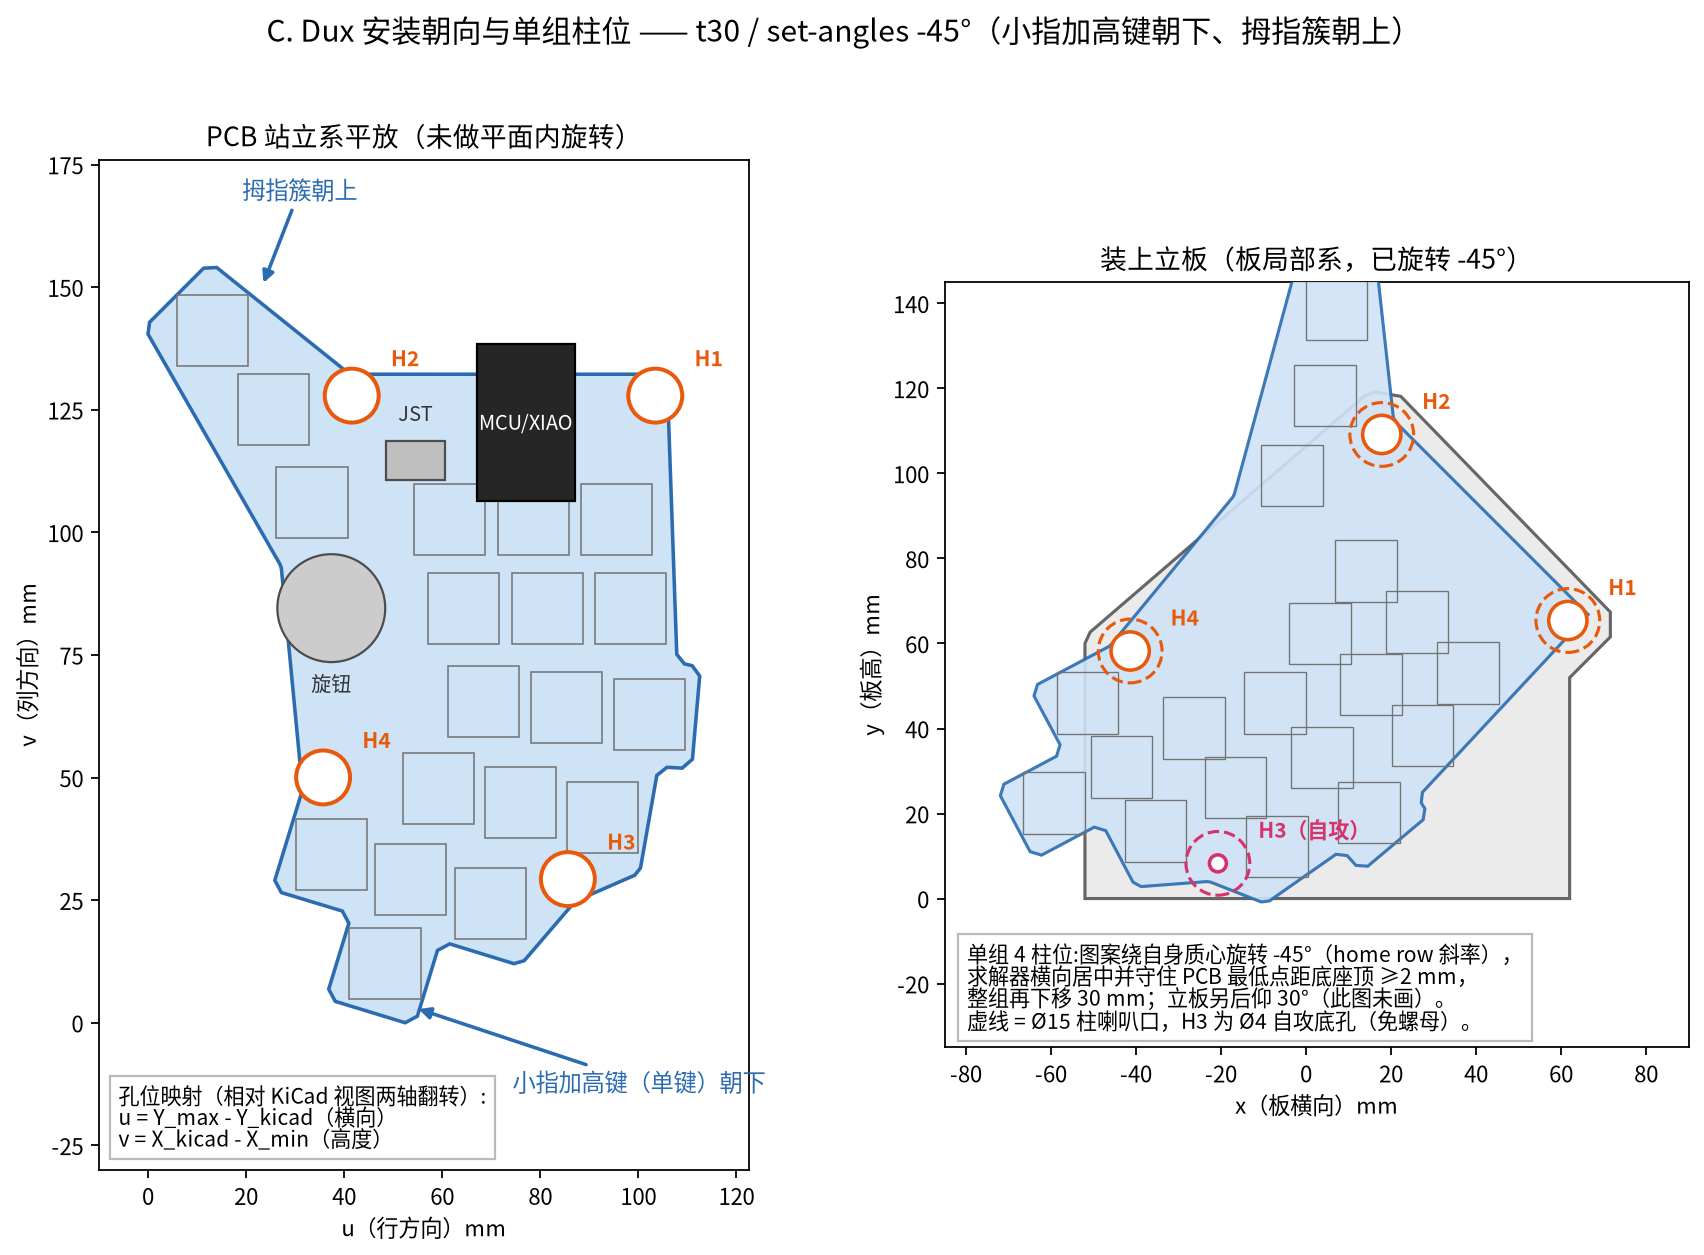
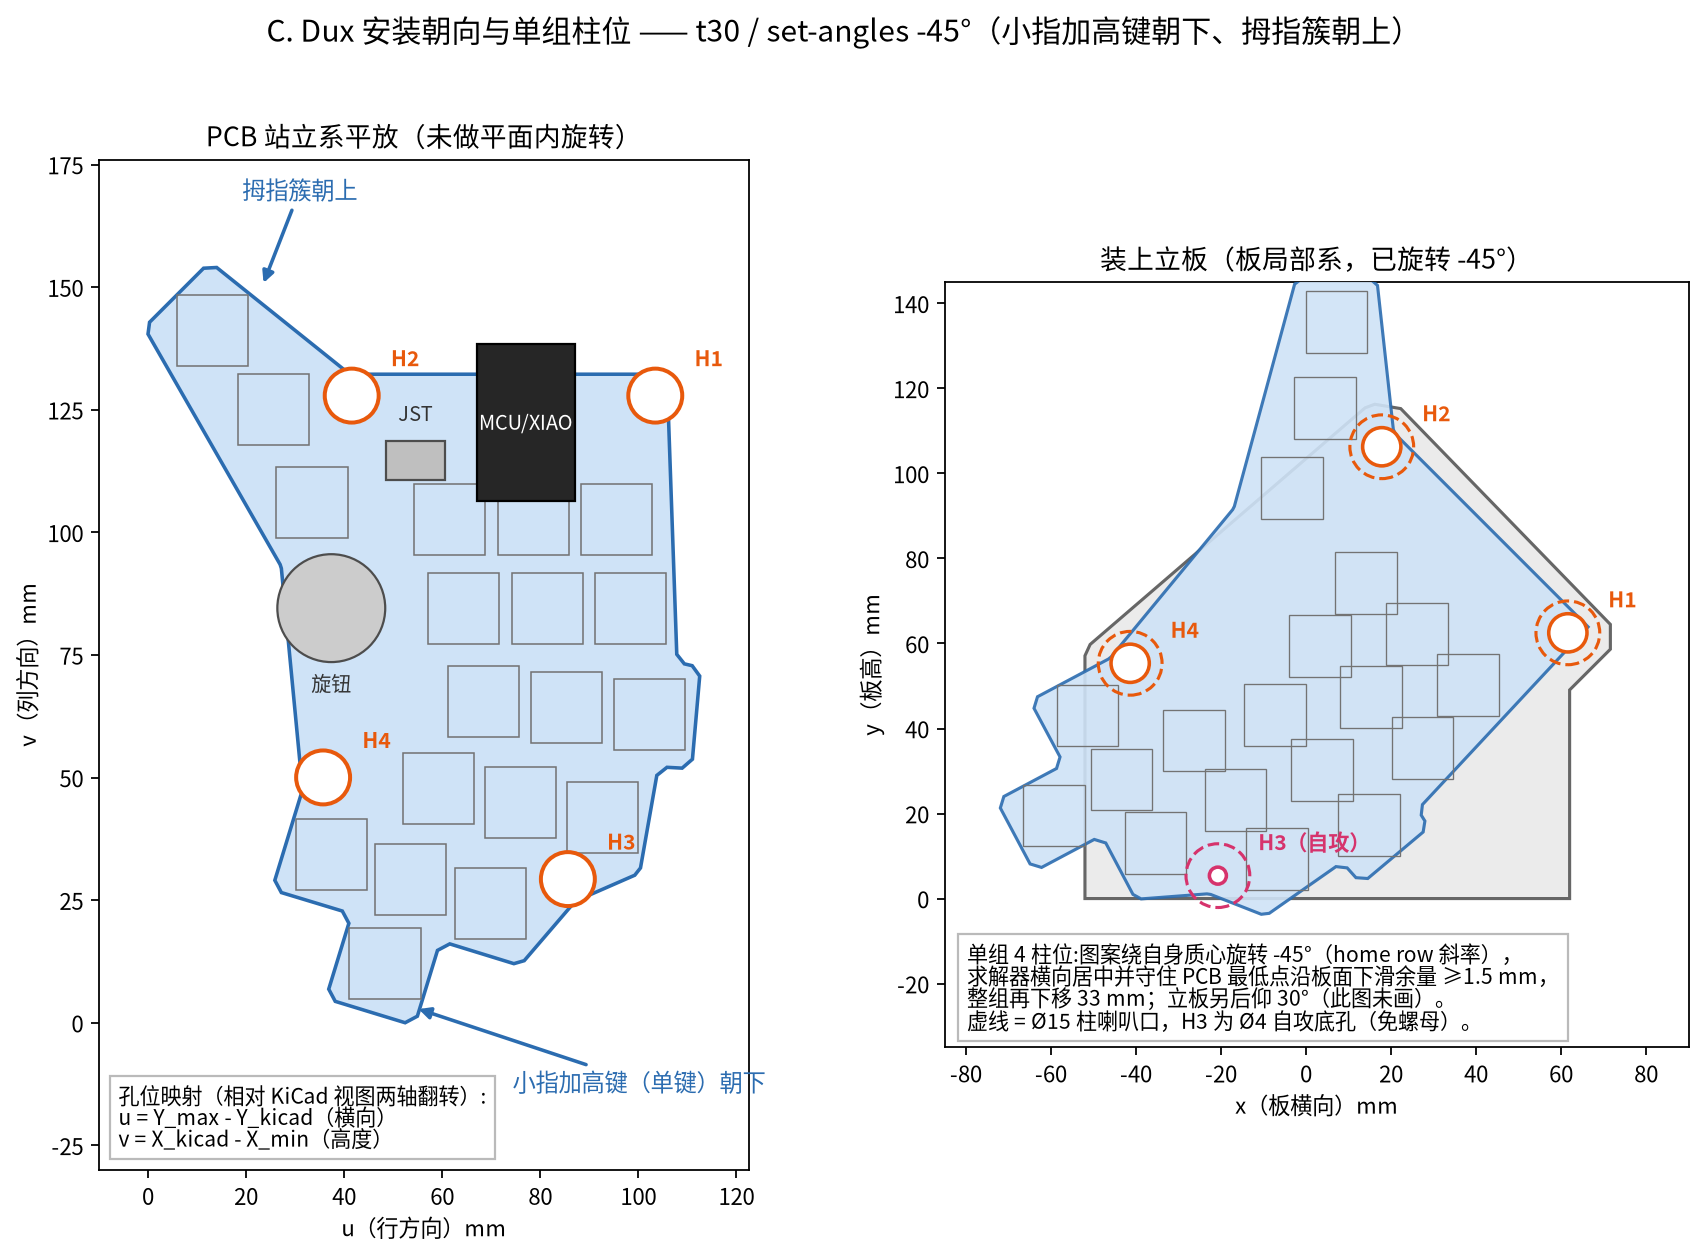
case/build123d: 高度约束改为沿板面下滑余量 1.5 mm
约束从世界竖直 2 mm(BASE_TOP_MARGIN)改为沿立板平面度量的下滑余量
1.5 mm(SLIDE_TOP_MARGIN,v_floor 乘 cos tilt 逐角度换算)——键盘装好
后只能沿板面滑动,竖直方向的约束对它没有物理意义。keyboard_drop
30 → 33 让约束绑定:t30/−45 回抬 ~0.11、净下移 ~32.9、最低板料点
z = 7.30(下滑恰 1.50/竖直 1.30),立板矮 ~2.5 mm(105 → 103 cm³),
左短肋自动降为 h=48;柱位 x 不变,底座足迹/榫键/螺孔不变。

H3 自攻容螺长检查改为纯信息报告(3 颗螺钉夹紧实测已足够,该孔基本
不用):去掉 design value 标注,只报告可用螺丝长度与咬合量。
H3 喇叭口足环回到越缘 2.1 mm,由靴座前斜面承载(flare_supported
通过),自攻咬合不变(M4×12 咬合 1.4 mm)。

README/stand-design.md 全部相关数字同步;对比图脚本去掉硬编码数字
改由数据驱动,mounting.png 重出。审计:悬空 0.21 cm² 无孤岛,
干涉体积 0。

diff --git a/case/build123d/stand.py b/case/build123d/stand.py
@@ -132,13 +132,13 @@ plate_margin = 10
 bottom_ext = 6.5  # nominal plate below the PCB bottom edge; the solver's
 #                  v_floor keeps the board's lowest outline point clear of
 #                  the base top, and keyboard_drop eats most of that margin
-keyboard_drop = 30.0  # whole mounting pattern shifted DOWN the plate by this
-# much (user asked for "键盘下移 3cm"; the real-outline height floor auto-
-# caps the NET drop wherever it binds — the solver lifts the pattern just
-# enough to hold the 2 mm base-top margin; angle-dependent: t30/-35 lift
-# ~0.9 -> net 29.1, lowest point z = 8.00, while t30/-45 leaves lift = 0
-# (net 30, lowest point z ~ 9.8). The old 20 cap guarded the lowest post's
-# back-face nut pocket vs the boot top; lowest_post_tapped = True removes it)
+keyboard_drop = 33.0  # whole mounting pattern shifted DOWN the plate by this
+# much (initially a user-measured 30; raised to 33 so the slide-margin floor
+# actually BINDS at t30/-45 and squeezes the upright: the solver lifts the
+# pattern just enough to hold the floor, so the NET drop auto-caps —
+# t30/-45: lift ~0.11, net ~32.9, lowest point z ~ 7.30 (slide margin 1.5).
+# The old 20 cap guarded the lowest post's back-face nut pocket vs the boot
+# top; lowest_post_tapped = True removes it)
 lowest_post_tapped = True  # lowest post gets a Ø tap_d self-tapping pilot
 # instead of a nut pocket: after the drop its back-face pocket would sit
 # inside the boot's z-band with no insertion access, and a tapped hole needs
@@ -317,7 +317,8 @@ nut_pocket_ac = 8.6  # hex pocket across corners + clearance (rib keep-out);
 # A single 4-post set per upright; its in-plane rotation (--set-angles,
 # default -40 deg CCW in the front view, negate to mirror) sets the home-row
 # slope. The solver centers the set laterally and lifts it so the rotated
-# board's lowest outline point clears the base top (BASE_TOP_MARGIN), then
+# board's lowest outline point clears the base top by SLIDE_TOP_MARGIN
+# (measured along the plate plane), then
 # shifts the whole pattern keyboard_drop down the plate.
 SET_ANGLES = [-45]  # deg, CCW in front view (negate to mirror tilt)
 MIN_POST_CENTER = 11.0  # post diameter 10 + 1 mm printing clearance
@@ -328,10 +329,13 @@ PLATE_HALF_BOUND = 72.0  # lateral layout sanity cap: the solver keeps post
 #                          base slab — the band IS the slab now) never
 #                          exceeds it either; a wider wish is a layout
 #                          problem, not a wider slab
-BASE_TOP_MARGIN = 2.0  # rotated board's lowest point vs base top — the ONLY
-#                        height constraint: clear the base, sit as low as
-#                        possible (the old 43 mm bottom-line rule applied only
-#                        to a base-parallel, unrotated mounting)
+SLIDE_TOP_MARGIN = 1.5  # keyboard slide margin vs base top, mm measured
+#                        ALONG the plate plane (world-z margin = this *
+#                        cos(tilt)): how far the mounted board could slide
+#                        down its posts before its lowest outline point
+#                        touches the base top — the ONLY height constraint
+#                        (the old world-z 2.0 rule applied to a vertical
+#                        drop the mounted board cannot make)
 EPS = 0.01
 MIN = Align.MIN
 
@@ -860,18 +864,21 @@ class Stand:
         lower on the plate (user request; with lowest_post_tapped the
         outline floor is the only limit — the solver lifts the pattern
         just enough to hold it, so the NET drop is keyboard_drop minus
-        that lift, ~29.1 mm at the default drop 30).
+        that lift, ~32.9 mm at the default drop 33).
         Optimizes for the largest minimum post distance, tie-broken by
         a compact span and a centered shift."""
         cu = sum(u for u, _ in self.holes) / len(self.holes)
         cv = sum(v for _, v in self.holes) / len(self.holes)
         rel = [(u - cu, v - cv) for u, v in self.holes]
         # v' the lowest board material may reach: the plate back face under
-        # it must stay BASE_TOP_MARGIN above the base top
+        # it must stay SLIDE_TOP_MARGIN above the base top, measured ALONG
+        # the plate plane (slide direction the mounted board can actually
+        # move in) — hence the *ct: world-z margin = slide * cos(tilt).
         # face_z = plate_t + post_h: the PCB back rides that far in front of
         # the plate back face, so its world height gains face_z * st
         v_floor = (
-            base_t + BASE_TOP_MARGIN - self.origin_z - self.face_z * self.st
+            base_t + SLIDE_TOP_MARGIN * self.ct - self.origin_z
+            - self.face_z * self.st
         ) / self.ct - bottom_ext
 
         lifted = []
@@ -1857,7 +1864,8 @@ def main() -> None:
             print(
                 f'set {ang:5.1f}°: posts x=[{min(x for x, _ in pts):7.2f}, '
                 f'{max(x for x, _ in pts):7.2f}]  '
-                f'lowest PCB outline point z={corner_z:6.2f} mm'
+                f'lowest PCB outline point z={corner_z:6.2f} mm '
+                f'(slide margin {(corner_z - stand.origin_z) / stand.ct:.2f} mm)'
             )
         key_xs = [round(stand.band_mid + s * key_x, 1) for s in (-1, 1)]
         print(

diff --git a/case/build123d/pcb_rotation_figure.py b/case/build123d/pcb_rotation_figure.py
@@ -315,8 +315,9 @@ def main() -> None:
     axins.axhline(0, color='k', lw=1.6)
     axins.axhspan(-8, 0, facecolor='0.96', hatch='///', edgecolor='0.55',
                   lw=0)
-    axins.axhline(6, color='0.35', lw=1.2, ls='--', zorder=2)
-    boxed(axins, cw[0] - 23, 6.4, '底座顶 z=6', '0.3')
+    base_t = figd['base']['t']
+    axins.axhline(base_t, color='0.35', lw=1.2, ls='--', zorder=2)
+    boxed(axins, cw[0] - 23, base_t + 0.4, f'底座顶 z={base_t:g}', '0.3')
     boot_f, ledge = figd['boot']['front'], figd['boot']['top']
     axins.plot([boot_f, boot_f + 8 * st / ct], [6, ledge], color='0.25',
                lw=2.2, zorder=2)
@@ -351,10 +352,11 @@ def main() -> None:
         arrowprops={'arrowstyle': '-|>', 'color': C_CORNER, 'lw': 1.0})
     boxed(axins, x0 + 12.5 * math.cos(aa), z0 + 12.5 * math.sin(aa) + 1.2,
           f'{a_edge:+.0f}°', C_CORNER, ha='center')
-    axins.annotate('', xy=(cw[0] + 5.5, 6), xytext=(cw[0] + 5.5, cw[2]),
+    axins.annotate('', xy=(cw[0] + 5.5, base_t),
+                   xytext=(cw[0] + 5.5, cw[2]),
                    arrowprops={'arrowstyle': '<->', 'color': 'k', 'lw': 1.0})
-    boxed(axins, cw[0] + 6.2, (6 + cw[2]) / 2,
-          f'距底座顶\n{cw[2] - 6:.1f} mm', 'k', va='center')
+    boxed(axins, cw[0] + 6.2, (base_t + cw[2]) / 2,
+          f'距底座顶\n{cw[2] - base_t:.1f} mm', 'k', va='center')
     axins.plot(hl_w[0], hl_w[2], 'o', color=C_HL, ms=5, zorder=6)
     axins.annotate(args.highlight_label.split('（')[0],
                    xy=(hl_w[0], hl_w[2]),

diff --git a/case/build123d/keyboard_clearance_check.py b/case/build123d/keyboard_clearance_check.py
@@ -282,8 +282,10 @@ def main() -> None:
     print(f'   gap to base top {corn_w[2] - stand.base_t:.2f} mm; '
           f'x within boot span: {s.boot_lo <= corn_w[0] <= s.boot_hi}')
 
-    # ---- H3 self-tap screw capacity -----------------------------------------
-    print('\n== 4. H3 self-tap pilot: how long an M4 screw fits')
+    # ---- H3 self-tap screw capacity (informational only) --------------------
+    # The 3 nut-clamped screws hold the board in practice; this hole is
+    # rarely used, so the report just states what length fits — no gating.
+    print('\n== 4. H3 self-tap pilot: usable screw length (informational)')
     hx, hy = s.lowest_post
     free = face_z + args.pcb_t            # bore through PCB+post+plate
     x0, x1 = (s.band_mid - stand.key_x - stand.key_l / 2 - stand.joint_clear,
@@ -308,7 +310,7 @@ def main() -> None:
     for screw_len in (12, 14, 16):
         bite = screw_len - free   # tip depth into the toe plastic
         print(f'   M4x{screw_len}: tip bites {bite:.1f} mm into the toe '
-              'plastic' + (' (design value)' if screw_len == 12 else ''))
+              'plastic')
 
     if args.json:
         fig = {

diff --git a/case/build123d/mounting_diagram.py b/case/build123d/mounting_diagram.py
@@ -226,7 +226,7 @@ def main() -> None:
                   fontweight='bold', zorder=6)
     ax_b.text(0.03, 0.02,
               f'单组 4 柱位:图案绕自身质心旋转 {ang_:+g}°（home row 斜率），\n'
-              '求解器横向居中并守住 PCB 最低点距底座顶 ≥2 mm，\n'
+              '求解器横向居中并守住 PCB 最低点沿板面下滑余量 ≥1.5 mm，\n'
               f'整组再下移 {stand.keyboard_drop:g} mm；立板另后仰 '
               f'{s.tilt:g}°（此图未画）。\n'
               f'虚线 = Ø15 柱喇叭口，H3 为 Ø{stand.tap_d:g} 自攻底孔（免螺母）。',

diff --git a/case/build123d/README.md b/case/build123d/README.md
@@ -59,14 +59,16 @@ MCU/XIAO、JST、USB 出线位于背板中上部。
 
 - 柱位由求解器自动排布:横向居中,并求最小抬升,保证 **PCB 最低材料点
   (按 Edge.Cuts 实际板框逐角度采样,非包围盒角点——右下角 bbox 角处
-  没有板料)距底座顶面 ≥2 mm**;整组柱位再沿背板整体下移
-  `keyboard_drop` 30 mm(用户要求“键盘下移 3cm”)。最低孔位改为
+  没有板料)沿板面下滑到底座顶的余量 ≥1.5 mm**(沿立板平面度量,
+  世界竖直余量 = 1.5·cos tilt);整组柱位再沿背板整体下移
+  `keyboard_drop` 33 mm(实测需求 30,加高让约束绑定、进一步压低
+  立板)。最低孔位改为
   自攻底孔(lowest_post_tapped,见“装配”一节)后,下移不再受螺母
   沉孔 vs 靴座的操作限制,
   净下移由高度约束逐角度自动封顶:约束绑定时求解器把图案回抬
-  以守住 2 mm 底线(t30/−35 回抬 ~0.9,净下移 ~29.1,日志
-  `lowest PCB outline point z = 8.00`);当前默认 t30/−45 不触发
-  回抬,净下移取整 30、`lowest PCB outline point z = 9.80`,
+  以守住下滑余量(t30/−35 旧竖直 2 mm 约束下回抬 ~0.9,净下移
+  ~29.1);当前默认 t30/−45 绑定:回抬 ~0.1、净下移 ~32.9、
+  `lowest PCB outline point z = 7.30`(下滑余量恰 1.50),
   见“键盘离台高度与底座尺寸”一节;
 - **背板高度按需取**:立板只需在竖直方向上覆盖"螺丝孔 → 桌面"的
   投影距离并留余量(`top_rim`,5 mm,压在最高柱顶之上)——PCB 高于
@@ -101,7 +103,7 @@ MCU/XIAO、JST、USB 出线位于背板中上部。
   自动求解;避让柱背面沉孔/过孔与榫键条,且只落在靴座内、不再反向
   加宽);当前 30°/−45° 布局:右侧全高肋 x = 44;左全高肋放不下
   (初位 −34,撞 H4 背面螺母沉孔避让区),自动回退**短肋**
-  x = −34、h = 50——楔顶止于 H4 沉孔口下缘之下,不挡螺母放入,
+  x = −34、h = 48——楔顶止于 H4 沉孔口下缘之下,不挡螺母放入,
   也无需与右肋对称(用户定稿,见下);
 
 ## 环境(uv)
@@ -254,7 +256,7 @@ uv run stand.py --set-angles -45           # 安装组平面内旋转角(默认 
   背板(顶部几 mm 没入板内是有意为之);斜边自顶部后倾 ~12.6°(自
   支撑),楔顶截平 2.5 mm 替代零厚刀尖,与背板的竖直接缝倒 r3 凹
   圆角。当前 30°/−45° 布局
-  右侧全高 1 根(x = 44)+ 左侧短肋(x = −34、h = 50:左全高肋撞
+  右侧全高 1 根(x = 44)+ 左侧短肋(x = −34、h = 48:左全高肋撞
   H4 沉孔避让区,短肋楔顶自动下探到沉孔口下缘之下,螺母照常放入,
   不与右肋对称;厚度/根深已到上限档:16 mm 会把左短肋挤过键条避让
   界、根深 26 再大就顶到靴座后壁 6 mm 下限;肋底由 8×22
@@ -276,17 +278,20 @@ uv run stand.py --set-angles -45           # 安装组平面内旋转角(默认 
 把板框逐段 ~1 mm 采样,求解器逐安装角取旋转后的最小值(实测 19 颗键
 的键帽都不超出板边,键帽不会比板边更低)。注意它不是包围盒角点:
 t30/−45 姿态下虚拟角点 (u=112.5, v=0) 处没有板料,真实最低点在小指/
-无名指列的板底边,比虚拟角点高 ~31 mm。高度约束仍是 **旋转后 PCB
-最低材料点距底座顶面 ≥2 mm**,求解器求最小抬升;在此之上整组安装
-图案再沿背板下移 `keyboard_drop 30`(用户实测“键盘下移 3cm”的需求)。
+无名指列的板底边,比虚拟角点高 ~31 mm。高度约束是 **旋转后 PCB
+最低材料点沿板面下滑到底座顶的余量 ≥1.5 mm**(沿立板平面度量;
+等效世界竖直 ≥1.5·cos tilt——键盘装好后只能沿板面滑动),
+求解器求最小抬升;在此之上整组安装
+图案再沿背板下移 `keyboard_drop 33`(实测需求 30,加高让约束绑定、
+进一步压低立板)。
 最低孔位为自攻底孔(`lowest_post_tapped`,免螺母免让位)后,沉孔 vs
-靴座的操作限制消失,净下移由这条 2 mm 底线自动封顶:求解器回抬
-t30/−35 时回抬 lift ≈ 0.9、净下移 ≈ 29.1 mm、日志 `lowest PCB
-outline point z = 8.00`(底座顶 6 + 余量 2,约束恰好绑定);当前
-默认 t30/−45 旋转把最低材料点抬得更高,约束不再绑定:lift = 0、
-净下移取整 30、`lowest PCB outline point z = 9.80`,距底座顶面
-3.80 mm;背板底缘在键盘
-最低材料点旁边掠过(板局部系里材料最低点比板缘还低 ~1.9 mm,但
+靴座的操作限制消失,净下移由这条下滑余量底线自动封顶:求解器回抬
+t30/−35 旧竖直 2 mm 约束时回抬 lift ≈ 0.9、净下移 ≈ 29.1 mm、日志
+`lowest PCB outline point z = 8.00`(约束恰好绑定);当前
+默认 t30/−45 绑定:lift ≈ 0.1、净下移 ≈ 32.9、
+`lowest PCB outline point z = 7.30`(下滑余量恰 1.50,世界竖直
+1.30);背板底缘在键盘
+最低材料点旁边掠过(板局部系里材料最低点比板缘还低 ~3.7 mm,但
 板面距 PCB 面 3 mm,互不接触),底座顶面高度由 `base_t 6` 控制,
 板底直接落在座面,交界强度交给靴座+榫键+螺丝。底座各向:`base_front 25`(只防前向拉拽/碰撞,
 前向载荷偶发且小)、横向 = 底座足迹(约 118 mm;立板底带每侧内缩
@@ -354,8 +359,8 @@ h ~170 → ~144 mm,等价于老足迹上白拿 ~20% 抗后倾裕度,收到 85
 2. **固定 PCB(4 颗螺钉:3 螺母 + 1 自攻)**:H1/H2/H4 三个安装位用
    3 × M4×12 内六角螺钉——螺母先从背板**背面**压入
    六角沉孔(7.2 mm 跨面 × 3.4 mm 深,留 2.6 mm 前壁;收口唇已删,
-   螺母夹紧前靠摩擦保持)。当前下移 30 mm
-   (净 29.1)下 3 个沉孔口都在靴座顶面之上(沉孔口世界 z ≈ 47 ≫
+   螺母夹紧前靠摩擦保持)。当前下移 33 mm
+   (净 ~32.9)下 3 个沉孔口都在靴座顶面之上(沉孔口世界 z ≈ 44 ≫
    靴座顶 14),直接敞开可及;若某布局把最低的沉孔埋进
    靴座,代码会自动在靴座上开取放窗口(当前值不触发)。最低的孔位
    (H3)是 **Ø4.0 自攻底孔**(用户实测逐次加大:3.4 → 3.8 → 4.0 ——
